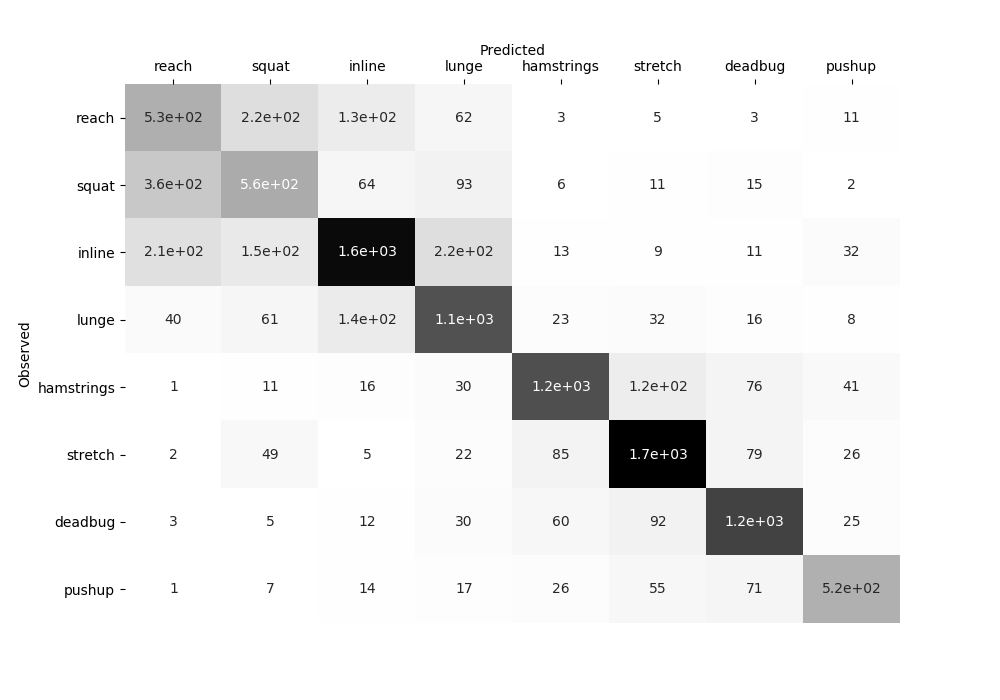
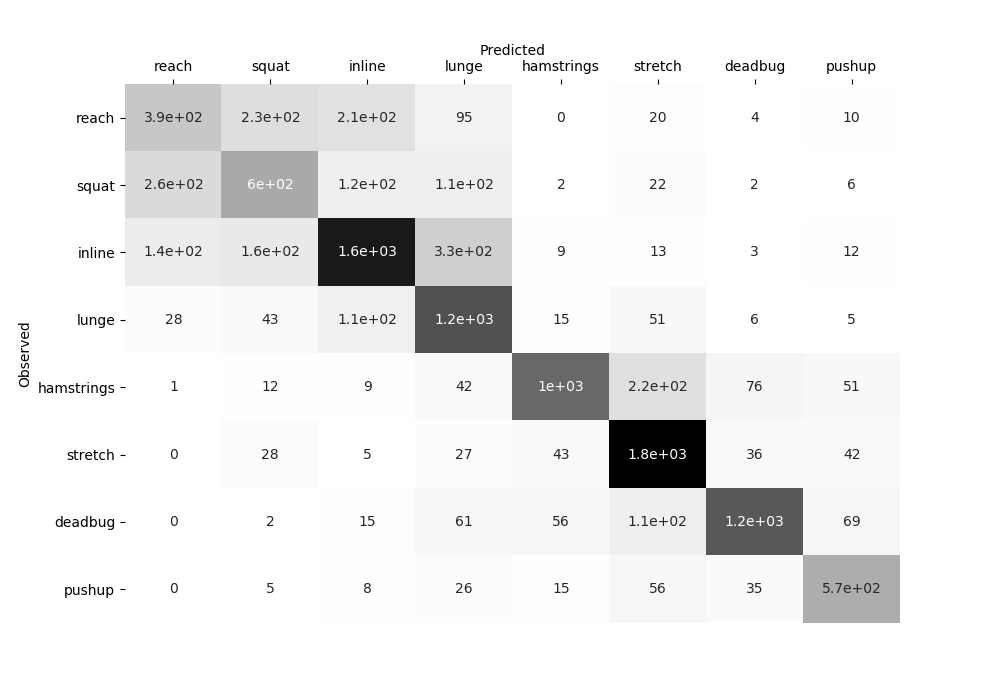
alexnet random rerun

diff --git a/alexnet.py b/alexnet.py
@@ -60,7 +60,7 @@ print('Device:', device)
 params = {'batch_size': 32,
           'shuffle': True,
           'num_workers': 4}
-num_epochs = 20
+num_epochs = 10
 learning_rate = 1e-5
 weight_decay = 1e-4
 
